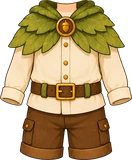
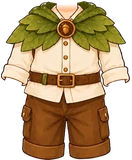
도토리 탐험복(남아) 새 원화로 교체 (#752)
* 해적 신발 크기·위치 재조정 (베이스 다리 비율에 맞춤)

- 해적 남아 원화와 비교해 베이스가 다리가 짧고 가늘어서, 신발 높이를 112로
  줄이고 윗선을 y827에 맞춤(발바닥 y939)
- 왼짝·오른짝을 따로 배치해 발별로 미세 조정할 수 있게 함
- 같은 파일명이라 경로에 ?v=2

Claude-Session: https://claude.ai/code/session_018maNuYqDfFyRSe9uKpZhPR

* 오늘의 발견을 수첩에 붙인 메모지 디자인으로 변경

- 크림색 종이 질감 + 연두 마스킹테이프, 테두리 없이 그림자·거친 가장자리로만 표현
- 수첩보다 살짝 좁게, '오늘의 발견'은 작게 · 발견 내용은 진한 갈색으로 크게
- 도감 버튼을 오른쪽 작은 알약 버튼(도감 N개 ›)으로
- '탐험일지' 머리말 아래 · 수첩 바로 위로 이동
- App.jsx에서 DiscoveryMemo 컴포넌트로 분리

Claude-Session: https://claude.ai/code/session_018maNuYqDfFyRSe9uKpZhPR

* 오늘의 발견 메모지: 글씨 줄이고 테이프를 왼쪽 위 모서리 대각선으로

- 발견 내용 16.5 → 14 (폰에서 짧은 힌트도 두 줄로 꺾이던 문제), 머리말·도감 버튼·아이콘도 한 단계씩
- 위쪽 가운데 테이프가 '탐험일지' 머리말 줄과 겹쳐 보여 왼쪽 위 모서리에 대각선으로

Claude-Session: https://claude.ai/code/session_018maNuYqDfFyRSe9uKpZhPR

* 오늘의 발견 메모지: 힌트 날의 발자국 아이콘 제거

발자국 자리만큼 힌트가 한 줄에 더 들어가게 함. 찾은 날의 발견 이모지는 유지.

Claude-Session: https://claude.ai/code/session_018maNuYqDfFyRSe9uKpZhPR

* 남아 아바타 기본 몸체 새 버전으로 교체

사용자 제공 원화(갈색 짧은 머리)로 body.webp 업데이트.
버전을 v8 → v9로 올려 기존 기기 캐시 무효화.
art-src/body-boy-src.webp에 원본 보관 (webp q92).

Claude-Session: https://claude.ai/code/session_018maNuYqDfFyRSe9uKpZhPR

* 남아 베이스 v9 탑재 바로잡기 (머리 겹침·비율 깨짐 수정)

직전 커밋은 원화(머리 포함 전신)를 1024×1024로 통째로 늘려 body.webp에 넣어
베이스 머리가 그 위에 또 그려지고 몸 비율도 깨졌다. v8과 같은 공식으로 다시 탑재:
- 알파 상자를 v8 자리(y89~942, 가로 중심 512)에 맞춤 — 실루엣 IoU 0.976이라 장비 재조정 불필요
- y405에서 가로로 잘라 head/body, 합본 default까지 3장 교체, 경로 ?v=9
- art-src: base-v9-boy-src.webp로 이름 정리, 규칙 6에 따라 base-v8-boy-src 삭제
[…]

diff --git a/src/data/avatarEquipment.js b/src/data/avatarEquipment.js
@@ -303,7 +303,10 @@ export const AVATAR_CATALOG = [
      같은 종류의 옷이라 자리가 어긋나면 갈아입을 때 튄다.
      망토 깃 안쪽 목·가슴 살은 남겼다 — 깃 구멍(폭 39)이 베이스 목(폭 67)보다
      좁아서 살을 지우면 깃 사이로 구멍이 보인다(민트 후드와 같은 이유). */
-  { id: "top_acorn",      slot: "top",   label: "도토리 탐험복", emoji: "🌰", price:DECOR_PRICE.rare, rarity: "rare", theme: "adventure", forGender: "boy", coversBottom: true, img: "assets/avatar/top/acorn-outfit-boy.webp", thumb: "assets/avatar/thumb/top_acorn.webp" },
+  /* [2026-10-02] 새 원화로 교체 (잎사귀 망토 + 크림 셔츠 + 갈색 반바지 한 벌, 사용자 원화) — 위 탑재값은 옛 판 기록.
+     비치룩·보드룩과 같은 방식: 원화 목 중심(x227.43)을 x516 에, 턱선 y14 를 y399 에 고정하고 어깨·속옷이 다 가려지는
+     가장 작은 배율 0.71. 턱은 지우고, 목 살(크림 깃과 R−B 로 구분)만 페이드로 베이스 목과 섞었다. 탑재 상자 (355,391)-(671,782). */
+  { id: "top_acorn",      slot: "top",   label: "도토리 탐험복", emoji: "🌰", price:DECOR_PRICE.rare, rarity: "rare", theme: "adventure", forGender: "boy", coversBottom: true, img: "assets/avatar/top/acorn-outfit-boy.webp?v=2", thumb: "assets/avatar/thumb/top_acorn.webp?v=2" },
   { id: "top_space",      slot: "top",   label: "우주복",       emoji: "🚀", price:DECOR_PRICE.epic, rarity: "epic", theme: "space",  coversBottom: true, img: "assets/avatar/top/space-suit-boy.webp?v=3", imgGirl: "assets/avatar/top/space-suit-girl.webp", thumb: "assets/avatar/thumb/top_space.webp?v=3", thumbGirl: "assets/avatar/thumb/top_space-girl.webp" },
 
   /* ── 우주 세트 (남아) — 사용자 원화 2026-09-29 ────────────────────────────

diff --git a/art-src/README.md b/art-src/README.md
@@ -362,7 +362,7 @@ getBoundingClientRect로 재서 정한다. 2026-08-05 점검에서 이 기준을
 | hoodie-boy-src.webp | **민트 후드 원화 남아 — 새 판 (사용자 원화 2026-10-02, 이전 판 교체)**. 465×720 투명 배경, 민트 집업 후드 + 흰 티 + 남색 카고 긴바지 한 벌. 위쪽에 베이스 턱·목이 함께 그려져 있어 그 턱으로 위치를 잡았다: 턱+목(원화 y0~100 · x95~365, 살색·갈색 선 마스크)을 베이스 민머리 몸에 마스크 템플릿 매칭 → 배율 0.695 · 왼쪽 위 (355,365). 탑재 전 열마다 맨 아래 살색까지의 살색·갈색·반투명 픽셀을 지워 턱을 없앤 뒤, 목 살은 원화 y53 아래부터 되살렸다 (다 지우면 목 구멍으로 베이스 민소매 끈이 비침 · y55 는 이음새 줄이 보임). 위쪽 부스러기 조각 제거 → 조각 1개. 속옷 비침 0. 탑재 상자 (355,385)-(678,865). 경로 ?v=2 | avatar/top/hoodie-boy.webp · thumb/top_hoodie.webp |
 | beach-boy-outfit-src.webp | **비치룩 원화 남아 (사용자 원화 2026-10-02)**. 433×507 투명 배경, 꽃무늬 오렌지 셔츠 + 흰 티 + 청록 수영 반바지 한 벌. 위쪽에 베이스 턱·목이 함께 그려져 있다. 턱 곡선 매칭은 오차가 커서(8px) 쓰지 않고, 원화 목 중심(x222.3)을 베이스 목 중심 x516 에, 원화 턱선 y28 을 y402 에 고정한 뒤 어깨 드러남이 줄어드는 배율을 골랐다 → 배율 0.72 · 왼쪽 위 (355.9,381.8). 원화 y30 위의 살색·갈색·반투명 픽셀 제거(턱), 원화 턱선이 베이스 턱보다 ~7px 낮아 목 살(원화 y30~52, x150~300)을 위에서 아래로 0→1 로 페이드, 목 가운데 남은 턱선 조각(갈색 112px) 제거 → 조각 1개. **[격자 확정 2026-10-02]** 처음엔 원화 y30 위의 갈색·반투명을 다 지워 깃 끝 윤곽선이 잘렸다 → 위쪽 가장자리에 닿는 턱 살 덩어리 + 그 7×7 둘레의 주황·살색이 아닌 픽셀만 지우게 고쳐 되살렸다(120px). 사용자가 격자로 보며 배율 0.72 → 0.7056(2% 작게) · 원화 y28 을 y402 → y399(위로 3) 로 확정. 속옷 비침 2px. 탑재 상자 (359,393)-(665,737) · 경로 ?v=2 | avatar/top/beach-outfit-boy.webp · thumb/top_beach.webp |
 | board-boy-outfit-src.webp | **보드룩 원화 남아 (사용자 원화 2026-10-02)**. 454×519 투명 배경, 크림 후드(남색·청록 소매) + 남색 카고 반바지 한 벌. 위쪽에 베이스 턱·목이 함께 그려져 있다. 크림 후드가 살색 판정에 걸려서, 원화 y28 위에서 **위 가장자리에 닿는 살 덩어리(4-연결)**만 턱으로 보고 9×9 둘레의 갈색·반투명 픽셀과 함께 지웠다. 후드는 y9 부터라 그 위 줄(턱 윤곽선 끝자락)도 비움. 목 살(원화 y26~48, x185~275)은 0→1 페이드, 목 가운데 턱선 조각(88px) 제거 → 조각 1개. 원화 목 중심 x228.95 → x516, 턱선 y25 → y399(비치룩 확정 높이)로 고정하고 어깨 드러남이 0 에 가까운 가장 작은 배율 0.71(0.70 은 45px 드러남). 속옷 비침 1px. 탑재 상자 (353,385)-(675,749) | avatar/top/board-outfit-boy.webp · thumb/top_board.webp |
-| acorn-boy-src.webp | **도토리 탐험복 원화 남아 (사용자 원화 2026-09-26)** — 860×1829 캔버스에 **옷만 오려 낸 깨끗한 그림**(연결 조각 1개, 안쪽 구멍 0). 크림 셔츠 + 나뭇잎 망토 + 도토리 금브로치 + 가죽 벨트 + 갈색 카고 반바지. 민트 후드와 똑같이 캔버스 전체로 퍼진 **알파 1~19 짜리 찌꺼기 9,398px** 이 있어 눌러서 보관했다(정리 후 알파 상자 (79,527)-(781,1377)). **배율 0.42 균등** · 망토 위끝 y383 → 탑재 상자 (366,383)-(661,740). 배율은 **사파리 옷 남아에 맞춰** 잡았다 — 소매부리 폭 293px, 상자 x366~661 로 둘이 거의 같은 자리에 온다(사파리 (366,386)-(659,742)). 같은 몸에 입히는 같은 종류의 옷이라 자리가 어긋나면 갈아입을 때 튄다. **망토 깃 안쪽 목·가슴 살은 남겼다** — 깃 구멍(폭 39)이 베이스 목(폭 67)보다 좁아서 살을 지우면 깃 사이로 구멍이 보인다(민트 후드와 같은 이유, 우주복 깃과 반대). 자홍 검사 통과(조각 1·구멍 0) | avatar/top/acorn-outfit-boy.webp |
+| acorn-boy-src.webp | **도토리 탐험복 원화 남아 — 새 판 (사용자 원화 2026-10-02, 이전 판 교체)**. 445×554 투명 배경, 잎사귀 망토 + 크림 셔츠 + 갈색 반바지 한 벌. 위쪽에 베이스 턱·목이 함께 그려져 있다. 원화 y18 위에서 위 가장자리에 닿는 살 덩어리(4-연결)를 턱으로 보고 7×7 둘레의 갈색·반투명과 함께 지움, y0~6 의 턱 윤곽선 끝자락도 비움. 크림 깃이 살색 판정에 걸려서 목 살만 R−B>95 로 골라(목 124~130 · 깃 64~74) 원화 y15~37 을 0→1 페이드, 목 가운데 턱선 조각 제거. 원화 목 중심 x227.43 → x516, 턱선 y14 → y399 로 고정하고 어깨·속옷이 다 가려지는 가장 작은 배율 0.71(0.70 은 속옷 9px). 축소 때 생긴 2px 점 제거 → 조각 1개. 속옷 비침 1px. 탑재 상자 (355,391)-(671,782) · 경로 ?v=2 | avatar/top/acorn-outfit-boy.webp · thumb/top_acorn.webp |
 | expedition/item/{lantern,rope,lunchbox,bottle,compass,torch,map}-src.webp | **탐험 준비물 원화 7종 (사용자 원화 2026-09-26~27)** — 88~184px 짜리 작은 그림. 받은 PNG 에 편집기 전용 청크(caBX·eXIf·sBIT·sRGB)가 들어 있어 **PIL 이 파일을 아예 못 열었다** — IHDR·IDAT·IEND 만 남겨 다시 쓰고 나서야 읽혔다(보관본은 그 정리본). **바깥 실루엣은 이미 따여 있었지만 안쪽에 갇힌 흰 배경이 남아 있었다** — 랜턴 손잡이 안·유리 양옆 기둥 사이(3곳 1,574px), 물통 어깨끈 고리 안(3곳 1,035px), 나침반 고리 안(264px), 도시락 손잡이 고리 안(111px). 밧줄·횃불은 깨끗했다. **하이라이트와 배경을 가르는 기준: 덩어리 둘레가 어두운 윤곽선인가.** 배경은 59~86%가 어두운 윤곽선에 둘러싸여 있고, 물통 유리의 흰 반사는 0~8% 였다(물건 색 위에 바로 얹혀 있어서). 지운 자리에 맞닿은 반투명 흰 테도 흰 정도만큼 알파를 깎았다. 배포 높이 96 (배지는 16px 로 그려진다 — 3배 화면까지 넉넉). **[2026-09-27] 보물지도 추가** — 이건 안쪽 흰 배경도 없이 처음부터 깨끗했지만(조각 1·구멍 0), 대신 **알파 1~19 짜리 헤일로 9,508px** 이 있어 알파 상자가 1220×947 → 1254×1206 으로 늘어났다. 안 누르고 자르면 세로로 27% 눌린 지도가 된다(성장 캐릭터와 같은 함정). 7장 합계 **43.5KB** | assets/expedition/item/*.webp |
 | (탈것 64장 갇힌 배경 점검 2026-09-27) | 준비물에 쓴 '갇힌 흰 배경 지우기'를 **탈것 32종 × 남녀 64장 전체**에 돌렸다. **결과: 진짜 갇힌 배경은 홍학 한 종뿐이었다** — 접은 다리와 몸 사이 쐐기(남아 597px · 여아 596+486px). 지우고 가장자리 흰 테도 깎았다. **나머지는 전부 '흰 물건'이라 손대면 안 된다** — 구름(14,915px)·얼음 미끄럼틀(40,450px)·유성 꼬리·돌고래 배·고래 물줄기·돛·오토바이 흙먼지·순록 배·로켓 몸통·유니콘 몸통·수정 하이라이트. 자동 판정으로는 이 둘을 못 가른다 — 준비물에 통했던 '둘레가 어두운 윤곽선인가'도, '투명한 바깥에 닿는가'도 여기선 다 걸린다(만화 그림은 흰 물건에도 윤곽선이 있다). 그래서 **150px 이상 후보 88개를 하나씩 눈으로 보고** 골랐다. 앞으로도 탈것은 자동 일괄 처리 금지 — 후보를 뽑아 보고 고를 것 | assets/expedition/ride/flamingo{,-girl}.webp |
 | (탈것 8종 흰 배경 지움 2026-09-27) | **사용자가 눈으로 찾아 준 자리 8종 × 남녀 16장**을 지웠다 — 열기구(사람 양옆) · 낙타(꼬리 옆·턱 아래) · 돌고래(몸과 물 사이·꼬리쪽) · 독수리(사람 양옆·발) · 유성(꼬리 흰색 전부) · 오토바이(겨드랑이·앞바퀴 위·바닥과 모래 사이) · 돛단배(얼굴·손·돛대와 천 사이) · 유니콘(꼬리 옆). **자동 판정을 포기하고 '상자를 주면 그 안에 걸친 밝고 무채색 덩어리를 통째로 지우는' 방식**으로 바꿨다(seedfill) — 덩어리는 상자 밖으로 이어져도 따라가고, 윤곽선에서 알아서 멈춘다. 어디를 지울지는 사람이 정한다. **밝기 기준은 그림마다 다르다** — 보통 (min≥200, 채도폭≤30) 이지만 돛단배는 돛이 연한 하늘색이라 그 기준으로는 돛까지 딸려 와서 (225,14) 로 조였고, 유니콘은 몸이 희어서 (232,14) 를 썼다. 오토바이 흙먼지·헤드라이트·바퀴 허브, 돛, 돌고래 배, 유성 색 꼬리는 **일부러 남겼다.** 지운 뒤 가장자리 흰 테도 깎고 20px 미만 부스러기를 정리했다 — 16장 전부 연결 조각 1개 | assets/expedition/ride/*.webp |
